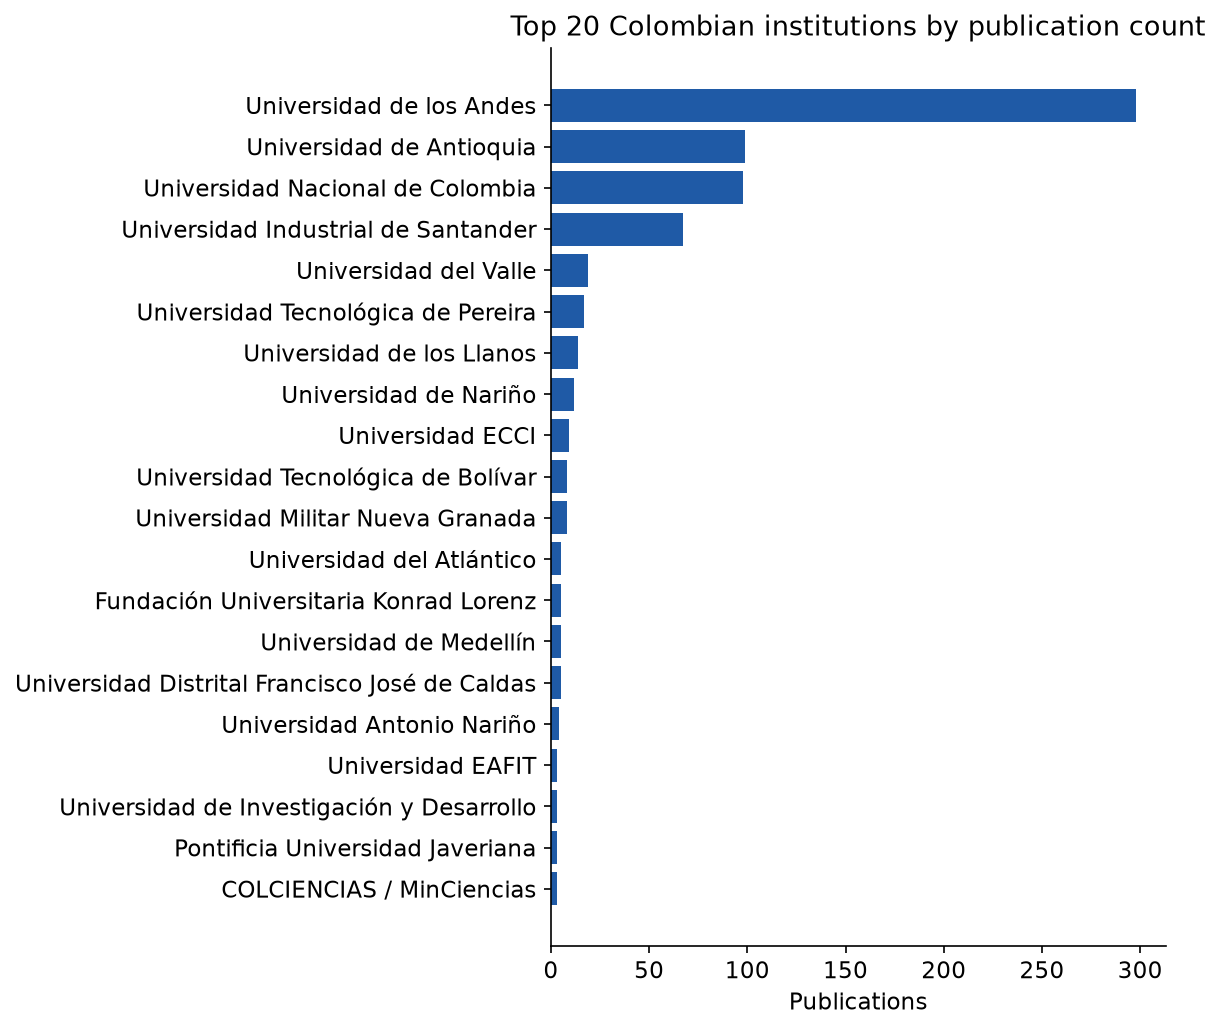
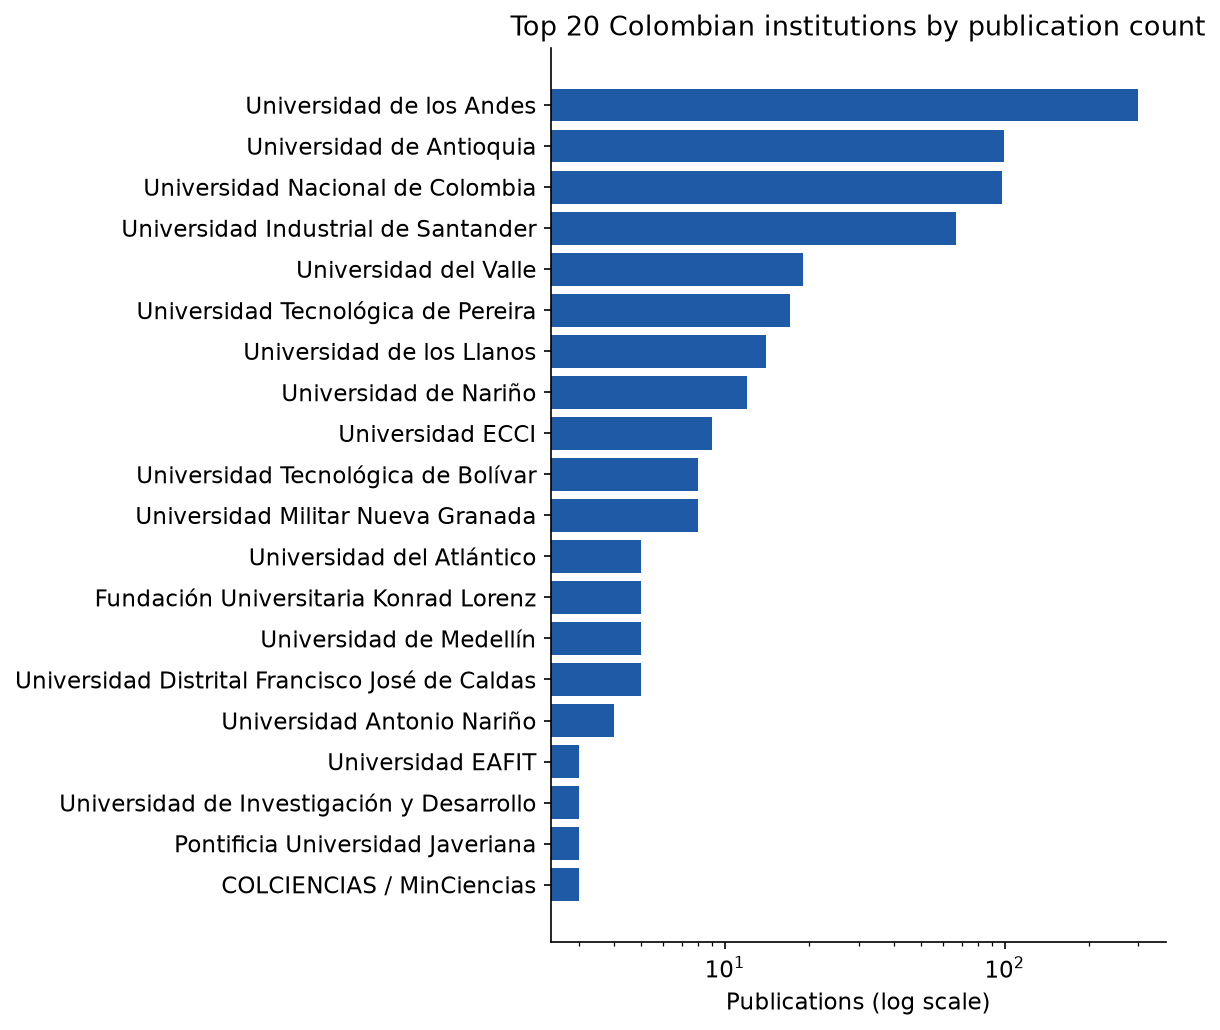
Log-scale the top-institutions chart
Publication counts across the top 20 institutions span ~2 orders of
magnitude (Uniandes at 298 down to a handful of entrants at 2-3), which
flattened everything below the top few bars on a linear axis.

diff --git a/src/plots.py b/src/plots.py
@@ -217,7 +217,10 @@ def fig_top_institutions(authors: pd.DataFrame, top_n: int = 20) -> pd.DataFrame
 
     fig, ax = plt.subplots(figsize=(8, 7))
     ax.barh(top.index[::-1], top.to_numpy()[::-1], color="#1f5aa6")
-    ax.set_xlabel("Publications")
+    # This ranking spans ~2 orders of magnitude (Uniandes vs. the smallest
+    # entrant), so a linear axis flattens everything below the top few bars.
+    ax.set_xscale("log")
+    ax.set_xlabel("Publications (log scale)")
     ax.set_title(f"Top {top_n} Colombian institutions by publication count")
     fig.tight_layout()
     fig.savefig(FIG_DIR / "fig4_top_institutions.png", bbox_inches="tight")
